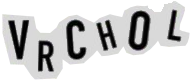
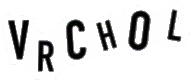
Add images for contacts, playing with styles

diff --git a/fe/fhtml/kontakty.html b/fe/fhtml/kontakty.html
@@ -1,7 +1,8 @@
 <section id="kontakty">
 	<h3>Kontakty</h3>
-	<!--<iframe style="border:none" src="https://frame.mapy.cz/s/gudusubala" width="400" height="280" frameborder="0"></iframe>-->
-	<a>facebook</a>
-	<a>instagram</a>
-	<a>mail</a>
+	<a href="https://fb.me/SymposionGjk"><img src="/img/fb.png" height="100px" alt="Facebook"/></a>
+	<a href="https://instagram.com/symposion_gjk"><img src="/img/ig.png" height="100px" alt="Instagram"/></a>
+	<a href="mailto:symposion@gjk.cz"><img src="/img/mail.png" height="100px" alt="Email"/></a>
+	<br/>
+	<iframe style="border:none" src="https://frame.mapy.cz/s/gudusubala" width="400" height="280" frameborder="0"></iframe>
 </section>

diff --git a/fe/fhtml/main.css b/fe/fhtml/main.css
@@ -46,6 +46,7 @@ h4{
 	z-index:901;
 	overflow-y:scroll;
 	overscroll-behavior:contain;
+	border-radius:10px;
 }
 #ov_lecturer{
 	text-align:center;
@@ -88,6 +89,7 @@ h4{
 	padding:20px;
 	font-style:bold;
 	border:3px solid #361F5F;
+	border-radius:5px;
 }
 
 header{
@@ -112,6 +114,10 @@ header{
 .header_fg h2{
 	display:inline;
 	background-color:white;
+	padding:5px;
+	margin-left:20px;
+	border-radius:5px;
+	font-size:1.5em;
 }
 nav{
 	background-color:white;

diff --git a/fe/build.rs b/fe/build.rs
@@ -73,6 +73,9 @@ pub fn cached_response_t(content_type : &str) -> warp::http::response::Builder {
 	out += &cached_ep(&mut routes, "harmonogram_js", "\"harmonogram.js\"", "utils::CT_JS", "rsrc_harmonogram_js", "", "_str");
 	out += &cached_ep(&mut routes, "title", "\"img\" / \"title.png\"", "utils::CT_PNG", "img_title_png.as_slice()", "", "_slice");
 	out += &cached_ep(&mut routes, "icon", "\"img\" / \"icon.png\"", "utils::CT_PNG", "img_ico_png.as_slice()", "", "_slice");
+	out += &cached_ep(&mut routes, "fbi", "\"img\" / \"fb.png\"", "utils::CT_PNG", "img_fb_png.as_slice()", "", "_slice");
+	out += &cached_ep(&mut routes, "igi", "\"img\" / \"ig.png\"", "utils::CT_PNG", "img_ig_png.as_slice()", "", "_slice");
+	out += &cached_ep(&mut routes, "maili", "\"img\" / \"mail.png\"", "utils::CT_PNG", "img_mail_png.as_slice()", "", "_slice");
 	out += &(String::from("\n\tlet routes = ") + routes[0] + "_route");
 	for r in routes.iter().skip(1) {
 		out += &(String::from(".or(") + r + "_route)");
